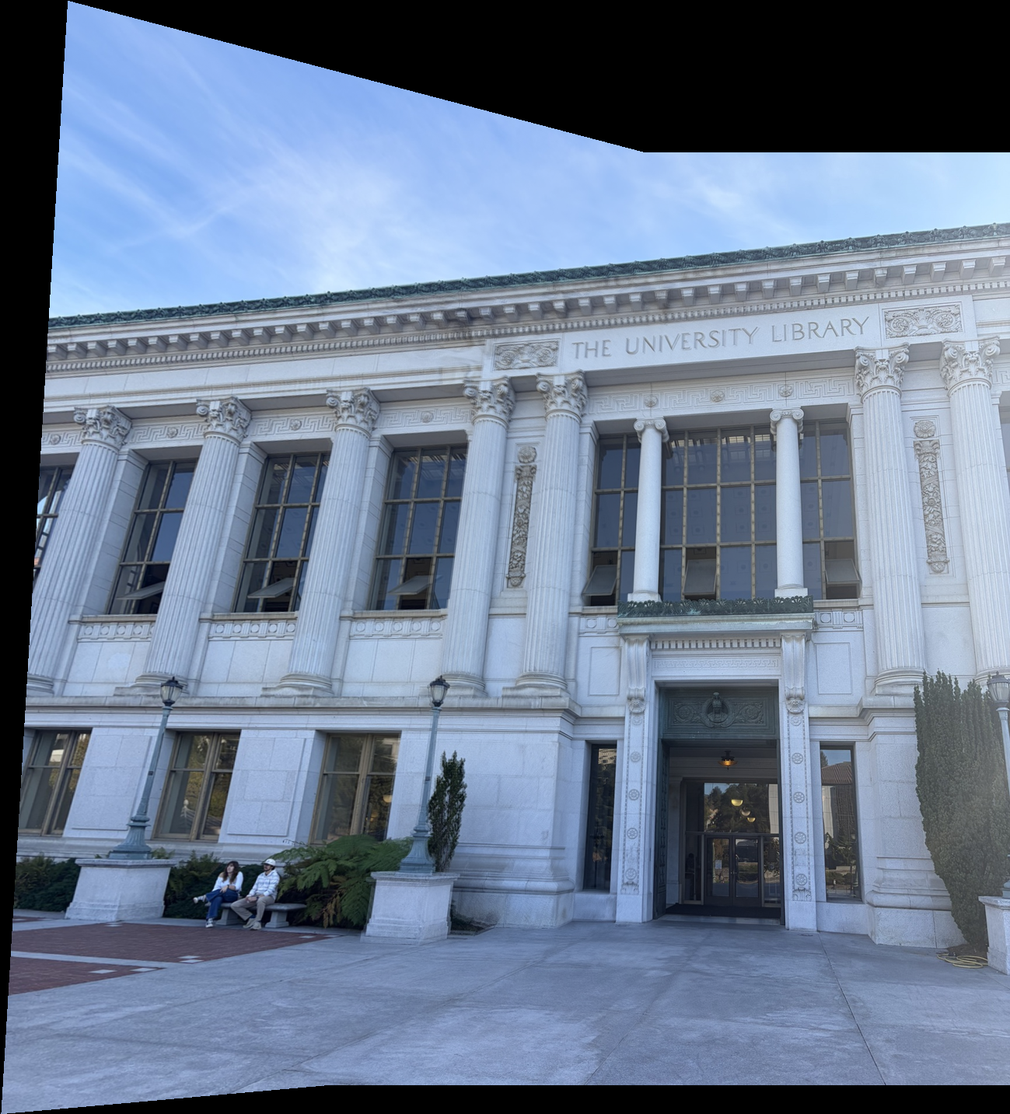
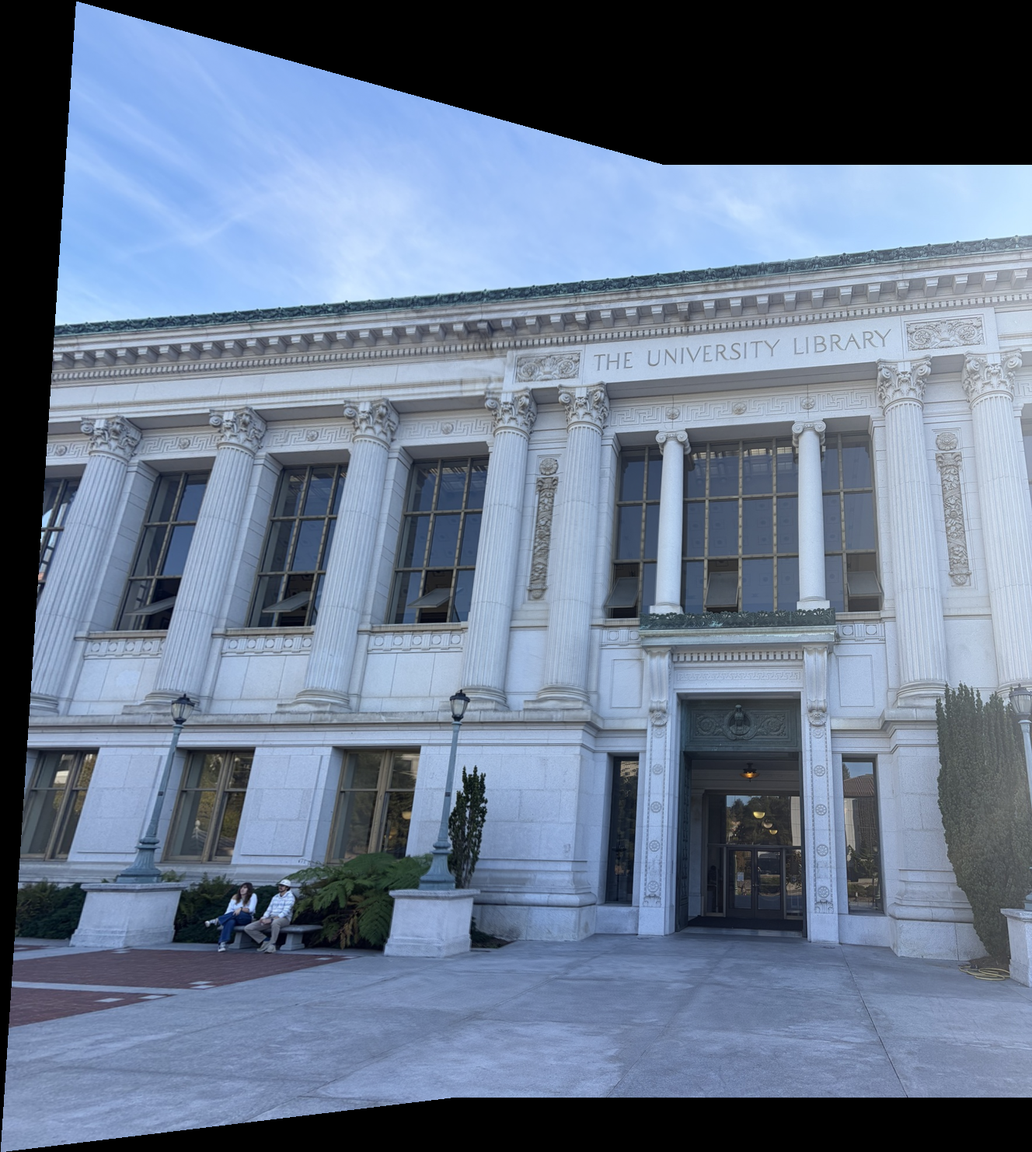
Use user-supplied manual correspondence points

diff --git a/project4/index.html b/project4/index.html
@@ -437,7 +437,7 @@
         </p>
         <figure class="hero">
           <a aria-label="Open full-size: Lower Sproul" href="assets/plaza_mosaic.png">
-            <img alt="Lower Sproul" decoding="async" height="1176" loading="lazy" src="assets/web/plaza_mosaic.webp" width="1800"/>
+            <img alt="Lower Sproul" decoding="async" height="1267" loading="lazy" src="assets/web/plaza_mosaic.webp" width="1800"/>
           </a>
           <figcaption>Lower Sproul</figcaption>
         </figure>
@@ -570,26 +570,26 @@
 
         <article>
           <h3>The Gateway</h3>
-          <figure class="correspondences"><svg viewBox="0 0 1000 400.00" role="img" aria-label="Corresponding landmarks between the left and right images" xmlns="http://www.w3.org/2000/svg"><title>The Gateway: corresponding landmarks</title><rect width="1000" height="100%" fill="#202124"/><image href="assets/web/IMG_4888.webp" x="0" y="28" width="480" height="360.00"/><text x="12" y="19" fill="white" font-family="Arial" font-size="14">Left</text><image href="assets/web/IMG_4890.webp" x="520" y="28" width="480" height="360.00"/><text x="532" y="19" fill="white" font-family="Arial" font-size="14">Right</text><line x1="253.20" y1="165.60" x2="679.60" y2="154.00" stroke="#ffe000" stroke-width="1" opacity=".35"/><circle cx="253.20" cy="165.60" r="4" fill="#ffe000" stroke="#111" stroke-width="1.5"/><text x="260.20" y="158.60" fill="#ffe000" stroke="#111" stroke-width="3" paint-order="stroke" font-family="Arial" font-weight="bold" font-size="16">1</text><circle cx="679.60" cy="154.00" r="4" fill="#ffe000" stroke="#111" stroke-width="1.5"/><text x="686.60" y="147.00" fill="#ffe000" stroke="#111" stroke-width="3" paint-order="stroke" font-family="Arial" font-weight="bold" font-size="16">1</text><line x1="445.20" y1="148.80" x2="860.00" y2="151.60" stroke="#00e5ff" stroke-width="1" opacity=".35"/><circle cx="445.20" cy="148.80" r="4" fill="#00e5ff" stroke="#111" stroke-width="1.5"/><text x="452.20" y="141.80" fill="#00e5ff" stroke="#111" stroke-width="3" paint-order="stroke" font-family="Arial" font-weight="bold" font-size="16">2</text><circle cx="860.00" cy="151.60" r="4" fill="#00e5ff" stroke="#111" stroke-width="1.5"/><text x="867.00" y="144.60" fill="#00e5ff" stroke="#111" stroke-width="3" paint-order="stroke" font-family="Arial" font-weight="bold" font-size="16">2</text><line x1="336.80" y1="260.00" x2="762.00" y2="254.00" stroke="#ff628c" stroke-width="1" opacity=".35"/><circle cx="336.80" cy="260.00" r="4" fill="#ff628c" stroke="#111" stroke-width="1.5"/><text x="343.80" y="253.00" fill="#ff628c" stroke="#111" stroke-width="3" paint-order="stroke" font-family="Arial" font-weight="bold" font-size="16">3</text><circle cx="762.00" cy="254.00" r="4" fill="#ff628c" stroke="#111" stroke-width="1.5"/><text x="769.00" y="247.00" fill="#ff628c" stroke="#111" stroke-width="3" paint-order="stroke" font-family="Arial" font-weight="bold" font-size="16">3</text><line x1="359.60" y1="260.00" x2="783.60" y2="254.00" stroke="#80ff6b" stroke-width="1" opacity=".35"/><circle cx="359.60" cy="260.00" r="4" fill="#80ff6b" stroke="#111" stroke-width="1.5"/><text x="366.60" y="253.00" fill="#80ff6b" stroke="#111" stroke-width="3" paint-order="stroke" font-family="Arial" font-weight="bold" font-size="16">4</text><circle cx="783.60" cy="254.00" r="4" fill="#80ff6b" stroke="#111" stroke-width="1.5"/><text x="790.60" y="247.00" fill="#80ff6b" stroke="#111" stroke-width="3" paint-order="stroke" font-family="Arial" font-weight="bold" font-size="16">4</text><line x1="302.40" y1="258.00" x2="732.40" y2="252.80" stroke="#ff9900" stroke-width="1" opacity=".35"/><circle cx="302.40" cy="258.00" r="4" fill="#ff9900" stroke="#111" stroke-width="1.5"/><text x="309.40" y="251.00" fill="#ff9900" stroke="#111" stroke-width="3" paint-order="stroke" font-family="Arial" font-weight="bold" font-size="16">5</text><circle cx="732.40" cy="252.80" r="4" fill="#ff9900" stroke="#111" stroke-width="1.5"/><text x="739.40" y="245.80" fill="#ff9900" stroke="#111" stroke-width="3" paint-order="stroke" font-family="Arial" font-weight="bold" font-size="16">5</text><line x1="385.20" y1="96.40" x2="810.80" y2="98.00" stroke="#c6a0ff" stroke-width="1" opacity=".35"/><circle cx="385.20" cy="96.40" r="4" fill="#c6a0ff" stroke="#111" stroke-width="1.5"/><text x="392.20" y="89.40" fill="#c6a0ff" stroke="#111" stroke-width="3" paint-order="stroke" font-family="Arial" font-weight="bold" font-size="16">6</text><circle cx="810.80" cy="98.00" r="4" fill="#c6a0ff" stroke="#111" stroke-width="1.5"/><text x="817.80" y="91.00" fill="#c6a0ff" stroke="#111" stroke-width="3" paint-order="stroke" font-family="Arial" font-weight="bold" font-size="16">6</text></svg></figure>
-          <pre class="matrix" aria-label="Recovered homography matrix">H = [  1.5661934   0.0004622  -475.3358361
-       0.2374199   1.3854138  -219.3001560
-       0.0004310   0.0000420   1.0000000 ]</pre>
+          <figure class="correspondences"><svg viewBox="0 0 1000 400.00" role="img" aria-label="Corresponding landmarks between the left and right images" xmlns="http://www.w3.org/2000/svg"><title>The Gateway: corresponding landmarks</title><rect width="1000" height="100%" fill="#202124"/><image href="assets/web/IMG_4888.webp" x="0" y="28" width="480" height="360.00"/><text x="12" y="19" fill="white" font-family="Arial" font-size="14">Left</text><image href="assets/web/IMG_4890.webp" x="520" y="28" width="480" height="360.00"/><text x="532" y="19" fill="white" font-family="Arial" font-size="14">Right</text><line x1="253.80" y1="166.00" x2="681.10" y2="154.60" stroke="#ffe000" stroke-width="1" opacity=".35"/><circle cx="253.80" cy="166.00" r="4" fill="#ffe000" stroke="#111" stroke-width="1.5"/><text x="260.80" y="159.00" fill="#ffe000" stroke="#111" stroke-width="3" paint-order="stroke" font-family="Arial" font-weight="bold" font-size="16">1</text><circle cx="681.10" cy="154.60" r="4" fill="#ffe000" stroke="#111" stroke-width="1.5"/><text x="688.10" y="147.60" fill="#ffe000" stroke="#111" stroke-width="3" paint-order="stroke" font-family="Arial" font-weight="bold" font-size="16">1</text><line x1="446.10" y1="146.20" x2="860.20" y2="150.10" stroke="#00e5ff" stroke-width="1" opacity=".35"/><circle cx="446.10" cy="146.20" r="4" fill="#00e5ff" stroke="#111" stroke-width="1.5"/><text x="453.10" y="139.20" fill="#00e5ff" stroke="#111" stroke-width="3" paint-order="stroke" font-family="Arial" font-weight="bold" font-size="16">2</text><circle cx="860.20" cy="150.10" r="4" fill="#00e5ff" stroke="#111" stroke-width="1.5"/><text x="867.20" y="143.10" fill="#00e5ff" stroke="#111" stroke-width="3" paint-order="stroke" font-family="Arial" font-weight="bold" font-size="16">2</text><line x1="336.30" y1="262.00" x2="759.70" y2="254.20" stroke="#ff628c" stroke-width="1" opacity=".35"/><circle cx="336.30" cy="262.00" r="4" fill="#ff628c" stroke="#111" stroke-width="1.5"/><text x="343.30" y="255.00" fill="#ff628c" stroke="#111" stroke-width="3" paint-order="stroke" font-family="Arial" font-weight="bold" font-size="16">3</text><circle cx="759.70" cy="254.20" r="4" fill="#ff628c" stroke="#111" stroke-width="1.5"/><text x="766.70" y="247.20" fill="#ff628c" stroke="#111" stroke-width="3" paint-order="stroke" font-family="Arial" font-weight="bold" font-size="16">3</text><line x1="359.40" y1="261.70" x2="780.70" y2="254.50" stroke="#80ff6b" stroke-width="1" opacity=".35"/><circle cx="359.40" cy="261.70" r="4" fill="#80ff6b" stroke="#111" stroke-width="1.5"/><text x="366.40" y="254.70" fill="#80ff6b" stroke="#111" stroke-width="3" paint-order="stroke" font-family="Arial" font-weight="bold" font-size="16">4</text><circle cx="780.70" cy="254.50" r="4" fill="#80ff6b" stroke="#111" stroke-width="1.5"/><text x="787.70" y="247.50" fill="#80ff6b" stroke="#111" stroke-width="3" paint-order="stroke" font-family="Arial" font-weight="bold" font-size="16">4</text><line x1="301.20" y1="260.20" x2="726.40" y2="252.40" stroke="#ff9900" stroke-width="1" opacity=".35"/><circle cx="301.20" cy="260.20" r="4" fill="#ff9900" stroke="#111" stroke-width="1.5"/><text x="308.20" y="253.20" fill="#ff9900" stroke="#111" stroke-width="3" paint-order="stroke" font-family="Arial" font-weight="bold" font-size="16">5</text><circle cx="726.40" cy="252.40" r="4" fill="#ff9900" stroke="#111" stroke-width="1.5"/><text x="733.40" y="245.40" fill="#ff9900" stroke="#111" stroke-width="3" paint-order="stroke" font-family="Arial" font-weight="bold" font-size="16">5</text><line x1="383.10" y1="95.80" x2="808.90" y2="97.60" stroke="#c6a0ff" stroke-width="1" opacity=".35"/><circle cx="383.10" cy="95.80" r="4" fill="#c6a0ff" stroke="#111" stroke-width="1.5"/><text x="390.10" y="88.80" fill="#c6a0ff" stroke="#111" stroke-width="3" paint-order="stroke" font-family="Arial" font-weight="bold" font-size="16">6</text><circle cx="808.90" cy="97.60" r="4" fill="#c6a0ff" stroke="#111" stroke-width="1.5"/><text x="815.90" y="90.60" fill="#c6a0ff" stroke="#111" stroke-width="3" paint-order="stroke" font-family="Arial" font-weight="bold" font-size="16">6</text></svg></figure>
+          <pre class="matrix" aria-label="Recovered homography matrix">H = [  1.4555456  -0.0314321  -412.5857737
+       0.2145069   1.2980965  -190.9237801
+       0.0003614   0.0000328   1.0000000 ]</pre>
         </article>
 
         <article>
           <h3>Doe Library</h3>
-          <figure class="correspondences"><svg viewBox="0 0 1000 680.00" role="img" aria-label="Corresponding landmarks between the left and right images" xmlns="http://www.w3.org/2000/svg"><title>Doe Library: corresponding landmarks</title><rect width="1000" height="100%" fill="#202124"/><image href="assets/web/IMG_4896.webp" x="0" y="28" width="480" height="640.00"/><text x="12" y="19" fill="white" font-family="Arial" font-size="14">Left</text><image href="assets/web/IMG_4897.webp" x="520" y="28" width="480" height="640.00"/><text x="532" y="19" fill="white" font-family="Arial" font-size="14">Right</text><line x1="272.53" y1="241.87" x2="668.27" y2="229.07" stroke="#ffe000" stroke-width="1" opacity=".35"/><circle cx="272.53" cy="241.87" r="4" fill="#ffe000" stroke="#111" stroke-width="1.5"/><text x="279.53" y="234.87" fill="#ffe000" stroke="#111" stroke-width="3" paint-order="stroke" font-family="Arial" font-weight="bold" font-size="16">1</text><circle cx="668.27" cy="229.07" r="4" fill="#ffe000" stroke="#111" stroke-width="1.5"/><text x="675.27" y="222.07" fill="#ffe000" stroke="#111" stroke-width="3" paint-order="stroke" font-family="Arial" font-weight="bold" font-size="16">1</text><line x1="269.87" y1="321.87" x2="662.93" y2="310.13" stroke="#00e5ff" stroke-width="1" opacity=".35"/><circle cx="269.87" cy="321.87" r="4" fill="#00e5ff" stroke="#111" stroke-width="1.5"/><text x="276.87" y="314.87" fill="#00e5ff" stroke="#111" stroke-width="3" paint-order="stroke" font-family="Arial" font-weight="bold" font-size="16">2</text><circle cx="662.93" cy="310.13" r="4" fill="#00e5ff" stroke="#111" stroke-width="1.5"/><text x="669.93" y="303.13" fill="#00e5ff" stroke="#111" stroke-width="3" paint-order="stroke" font-family="Arial" font-weight="bold" font-size="16">2</text><line x1="365.87" y1="566.67" x2="736.53" y2="554.40" stroke="#ff628c" stroke-width="1" opacity=".35"/><circle cx="365.87" cy="566.67" r="4" fill="#ff628c" stroke="#111" stroke-width="1.5"/><text x="372.87" y="559.67" fill="#ff628c" stroke="#111" stroke-width="3" paint-order="stroke" font-family="Arial" font-weight="bold" font-size="16">3</text><circle cx="736.53" cy="554.40" r="4" fill="#ff628c" stroke="#111" stroke-width="1.5"/><text x="743.53" y="547.40" fill="#ff628c" stroke="#111" stroke-width="3" paint-order="stroke" font-family="Arial" font-weight="bold" font-size="16">3</text><line x1="299.73" y1="167.73" x2="700.27" y2="159.73" stroke="#80ff6b" stroke-width="1" opacity=".35"/><circle cx="299.73" cy="167.73" r="4" fill="#80ff6b" stroke="#111" stroke-width="1.5"/><text x="306.73" y="160.73" fill="#80ff6b" stroke="#111" stroke-width="3" paint-order="stroke" font-family="Arial" font-weight="bold" font-size="16">4</text><circle cx="700.27" cy="159.73" r="4" fill="#80ff6b" stroke="#111" stroke-width="1.5"/><text x="707.27" y="152.73" fill="#80ff6b" stroke="#111" stroke-width="3" paint-order="stroke" font-family="Arial" font-weight="bold" font-size="16">4</text><line x1="409.60" y1="247.73" x2="800.00" y2="254.67" stroke="#ff9900" stroke-width="1" opacity=".35"/><circle cx="409.60" cy="247.73" r="4" fill="#ff9900" stroke="#111" stroke-width="1.5"/><text x="416.60" y="240.73" fill="#ff9900" stroke="#111" stroke-width="3" paint-order="stroke" font-family="Arial" font-weight="bold" font-size="16">5</text><circle cx="800.00" cy="254.67" r="4" fill="#ff9900" stroke="#111" stroke-width="1.5"/><text x="807.00" y="247.67" fill="#ff9900" stroke="#111" stroke-width="3" paint-order="stroke" font-family="Arial" font-weight="bold" font-size="16">5</text><line x1="186.67" y1="288.80" x2="572.27" y2="267.47" stroke="#c6a0ff" stroke-width="1" opacity=".35"/><circle cx="186.67" cy="288.80" r="4" fill="#c6a0ff" stroke="#111" stroke-width="1.5"/><text x="193.67" y="281.80" fill="#c6a0ff" stroke="#111" stroke-width="3" paint-order="stroke" font-family="Arial" font-weight="bold" font-size="16">6</text><circle cx="572.27" cy="267.47" r="4" fill="#c6a0ff" stroke="#111" stroke-width="1.5"/><text x="579.27" y="260.47" fill="#c6a0ff" stroke="#111" stroke-width="3" paint-order="stroke" font-family="Arial" font-weight="bold" font-size="16">6</text><line x1="181.87" y1="361.33" x2="561.60" y2="344.27" stroke="#ffffff" stroke-width="1" opacity=".35"/><circle cx="181.87" cy="361.33" r="4" fill="#ffffff" stroke="#111" stroke-width="1.5"/><text x="188.87" y="354.33" fill="#ffffff" stroke="#111" stroke-width="3" paint-order="stroke" font-family="Arial" font-weight="bold" font-size="16">7</text><circle cx="561.60" cy="344.27" r="4" fill="#ffffff" stroke="#111" stroke-width="1.5"/><text x="568.60" y="337.27" fill="#ffffff" stroke="#111" stroke-width="3" paint-order="stroke" font-family="Arial" font-weight="bold" font-size="16">7</text></svg></figure>
-          <pre class="matrix" aria-label="Recovered homography matrix">H = [  1.3223525  -0.0794634  -312.3323450
-       0.3078785   1.2184534  -195.7045869
-       0.0003534   0.0000201   1.0000000 ]</pre>
+          <figure class="correspondences"><svg viewBox="0 0 1000 680.00" role="img" aria-label="Corresponding landmarks between the left and right images" xmlns="http://www.w3.org/2000/svg"><title>Doe Library: corresponding landmarks</title><rect width="1000" height="100%" fill="#202124"/><image href="assets/web/IMG_4896.webp" x="0" y="28" width="480" height="640.00"/><text x="12" y="19" fill="white" font-family="Arial" font-size="14">Left</text><image href="assets/web/IMG_4897.webp" x="520" y="28" width="480" height="640.00"/><text x="532" y="19" fill="white" font-family="Arial" font-size="14">Right</text><line x1="273.20" y1="242.00" x2="668.40" y2="229.20" stroke="#ffe000" stroke-width="1" opacity=".35"/><circle cx="273.20" cy="242.00" r="4" fill="#ffe000" stroke="#111" stroke-width="1.5"/><text x="280.20" y="235.00" fill="#ffe000" stroke="#111" stroke-width="3" paint-order="stroke" font-family="Arial" font-weight="bold" font-size="16">1</text><circle cx="668.40" cy="229.20" r="4" fill="#ffe000" stroke="#111" stroke-width="1.5"/><text x="675.40" y="222.20" fill="#ffe000" stroke="#111" stroke-width="3" paint-order="stroke" font-family="Arial" font-weight="bold" font-size="16">1</text><line x1="270.80" y1="321.60" x2="661.20" y2="311.20" stroke="#00e5ff" stroke-width="1" opacity=".35"/><circle cx="270.80" cy="321.60" r="4" fill="#00e5ff" stroke="#111" stroke-width="1.5"/><text x="277.80" y="314.60" fill="#00e5ff" stroke="#111" stroke-width="3" paint-order="stroke" font-family="Arial" font-weight="bold" font-size="16">2</text><circle cx="661.20" cy="311.20" r="4" fill="#00e5ff" stroke="#111" stroke-width="1.5"/><text x="668.20" y="304.20" fill="#00e5ff" stroke="#111" stroke-width="3" paint-order="stroke" font-family="Arial" font-weight="bold" font-size="16">2</text><line x1="366.80" y1="568.00" x2="738.00" y2="556.40" stroke="#ff628c" stroke-width="1" opacity=".35"/><circle cx="366.80" cy="568.00" r="4" fill="#ff628c" stroke="#111" stroke-width="1.5"/><text x="373.80" y="561.00" fill="#ff628c" stroke="#111" stroke-width="3" paint-order="stroke" font-family="Arial" font-weight="bold" font-size="16">3</text><circle cx="738.00" cy="556.40" r="4" fill="#ff628c" stroke="#111" stroke-width="1.5"/><text x="745.00" y="549.40" fill="#ff628c" stroke="#111" stroke-width="3" paint-order="stroke" font-family="Arial" font-weight="bold" font-size="16">3</text><line x1="298.40" y1="168.40" x2="699.20" y2="159.20" stroke="#80ff6b" stroke-width="1" opacity=".35"/><circle cx="298.40" cy="168.40" r="4" fill="#80ff6b" stroke="#111" stroke-width="1.5"/><text x="305.40" y="161.40" fill="#80ff6b" stroke="#111" stroke-width="3" paint-order="stroke" font-family="Arial" font-weight="bold" font-size="16">4</text><circle cx="699.20" cy="159.20" r="4" fill="#80ff6b" stroke="#111" stroke-width="1.5"/><text x="706.20" y="152.20" fill="#80ff6b" stroke="#111" stroke-width="3" paint-order="stroke" font-family="Arial" font-weight="bold" font-size="16">4</text><line x1="411.20" y1="250.40" x2="799.60" y2="256.00" stroke="#ff9900" stroke-width="1" opacity=".35"/><circle cx="411.20" cy="250.40" r="4" fill="#ff9900" stroke="#111" stroke-width="1.5"/><text x="418.20" y="243.40" fill="#ff9900" stroke="#111" stroke-width="3" paint-order="stroke" font-family="Arial" font-weight="bold" font-size="16">5</text><circle cx="799.60" cy="256.00" r="4" fill="#ff9900" stroke="#111" stroke-width="1.5"/><text x="806.60" y="249.00" fill="#ff9900" stroke="#111" stroke-width="3" paint-order="stroke" font-family="Arial" font-weight="bold" font-size="16">5</text><line x1="186.80" y1="288.00" x2="570.40" y2="266.00" stroke="#c6a0ff" stroke-width="1" opacity=".35"/><circle cx="186.80" cy="288.00" r="4" fill="#c6a0ff" stroke="#111" stroke-width="1.5"/><text x="193.80" y="281.00" fill="#c6a0ff" stroke="#111" stroke-width="3" paint-order="stroke" font-family="Arial" font-weight="bold" font-size="16">6</text><circle cx="570.40" cy="266.00" r="4" fill="#c6a0ff" stroke="#111" stroke-width="1.5"/><text x="577.40" y="259.00" fill="#c6a0ff" stroke="#111" stroke-width="3" paint-order="stroke" font-family="Arial" font-weight="bold" font-size="16">6</text><line x1="180.80" y1="359.60" x2="558.00" y2="342.40" stroke="#ffffff" stroke-width="1" opacity=".35"/><circle cx="180.80" cy="359.60" r="4" fill="#ffffff" stroke="#111" stroke-width="1.5"/><text x="187.80" y="352.60" fill="#ffffff" stroke="#111" stroke-width="3" paint-order="stroke" font-family="Arial" font-weight="bold" font-size="16">7</text><circle cx="558.00" cy="342.40" r="4" fill="#ffffff" stroke="#111" stroke-width="1.5"/><text x="565.00" y="335.40" fill="#ffffff" stroke="#111" stroke-width="3" paint-order="stroke" font-family="Arial" font-weight="bold" font-size="16">7</text></svg></figure>
+          <pre class="matrix" aria-label="Recovered homography matrix">H = [  1.3702261  -0.0839241  -330.5531694
+       0.3329974   1.2425311  -211.0662873
+       0.0004089   0.0000066   1.0000000 ]</pre>
         </article>
 
         <article>
           <h3>Lower Sproul</h3>
-          <figure class="correspondences"><svg viewBox="0 0 1000 400.00" role="img" aria-label="Corresponding landmarks between the left and right images" xmlns="http://www.w3.org/2000/svg"><title>Lower Sproul: corresponding landmarks</title><rect width="1000" height="100%" fill="#202124"/><image href="assets/web/IMG_4927.webp" x="0" y="28" width="480" height="360.00"/><text x="12" y="19" fill="white" font-family="Arial" font-size="14">Left</text><image href="assets/web/IMG_4929.webp" x="520" y="28" width="480" height="360.00"/><text x="532" y="19" fill="white" font-family="Arial" font-size="14">Right</text><line x1="188.00" y1="90.00" x2="554.40" y2="57.60" stroke="#ffe000" stroke-width="1" opacity=".35"/><circle cx="188.00" cy="90.00" r="4" fill="#ffe000" stroke="#111" stroke-width="1.5"/><text x="195.00" y="83.00" fill="#ffe000" stroke="#111" stroke-width="3" paint-order="stroke" font-family="Arial" font-weight="bold" font-size="16">1</text><circle cx="554.40" cy="57.60" r="4" fill="#ffe000" stroke="#111" stroke-width="1.5"/><text x="561.40" y="50.60" fill="#ffe000" stroke="#111" stroke-width="3" paint-order="stroke" font-family="Arial" font-weight="bold" font-size="16">1</text><line x1="207.60" y1="124.40" x2="579.20" y2="99.20" stroke="#00e5ff" stroke-width="1" opacity=".35"/><circle cx="207.60" cy="124.40" r="4" fill="#00e5ff" stroke="#111" stroke-width="1.5"/><text x="214.60" y="117.40" fill="#00e5ff" stroke="#111" stroke-width="3" paint-order="stroke" font-family="Arial" font-weight="bold" font-size="16">2</text><circle cx="579.20" cy="99.20" r="4" fill="#00e5ff" stroke="#111" stroke-width="1.5"/><text x="586.20" y="92.20" fill="#00e5ff" stroke="#111" stroke-width="3" paint-order="stroke" font-family="Arial" font-weight="bold" font-size="16">2</text><line x1="224.00" y1="187.20" x2="600.40" y2="174.40" stroke="#ff628c" stroke-width="1" opacity=".35"/><circle cx="224.00" cy="187.20" r="4" fill="#ff628c" stroke="#111" stroke-width="1.5"/><text x="231.00" y="180.20" fill="#ff628c" stroke="#111" stroke-width="3" paint-order="stroke" font-family="Arial" font-weight="bold" font-size="16">3</text><circle cx="600.40" cy="174.40" r="4" fill="#ff628c" stroke="#111" stroke-width="1.5"/><text x="607.40" y="167.40" fill="#ff628c" stroke="#111" stroke-width="3" paint-order="stroke" font-family="Arial" font-weight="bold" font-size="16">3</text><line x1="345.60" y1="191.20" x2="730.00" y2="181.60" stroke="#80ff6b" stroke-width="1" opacity=".35"/><circle cx="345.60" cy="191.20" r="4" fill="#80ff6b" stroke="#111" stroke-width="1.5"/><text x="352.60" y="184.20" fill="#80ff6b" stroke="#111" stroke-width="3" paint-order="stroke" font-family="Arial" font-weight="bold" font-size="16">4</text><circle cx="730.00" cy="181.60" r="4" fill="#80ff6b" stroke="#111" stroke-width="1.5"/><text x="737.00" y="174.60" fill="#80ff6b" stroke="#111" stroke-width="3" paint-order="stroke" font-family="Arial" font-weight="bold" font-size="16">4</text><line x1="294.00" y1="252.00" x2="677.20" y2="242.40" stroke="#ff9900" stroke-width="1" opacity=".35"/><circle cx="294.00" cy="252.00" r="4" fill="#ff9900" stroke="#111" stroke-width="1.5"/><text x="301.00" y="245.00" fill="#ff9900" stroke="#111" stroke-width="3" paint-order="stroke" font-family="Arial" font-weight="bold" font-size="16">5</text><circle cx="677.20" cy="242.40" r="4" fill="#ff9900" stroke="#111" stroke-width="1.5"/><text x="684.20" y="235.40" fill="#ff9900" stroke="#111" stroke-width="3" paint-order="stroke" font-family="Arial" font-weight="bold" font-size="16">5</text><line x1="237.60" y1="226.40" x2="616.40" y2="216.80" stroke="#c6a0ff" stroke-width="1" opacity=".35"/><circle cx="237.60" cy="226.40" r="4" fill="#c6a0ff" stroke="#111" stroke-width="1.5"/><text x="244.60" y="219.40" fill="#c6a0ff" stroke="#111" stroke-width="3" paint-order="stroke" font-family="Arial" font-weight="bold" font-size="16">6</text><circle cx="616.40" cy="216.80" r="4" fill="#c6a0ff" stroke="#111" stroke-width="1.5"/><text x="623.40" y="209.80" fill="#c6a0ff" stroke="#111" stroke-width="3" paint-order="stroke" font-family="Arial" font-weight="bold" font-size="16">6</text><line x1="253.60" y1="248.40" x2="635.20" y2="238.40" stroke="#ffffff" stroke-width="1" opacity=".35"/><circle cx="253.60" cy="248.40" r="4" fill="#ffffff" stroke="#111" stroke-width="1.5"/><text x="260.60" y="241.40" fill="#ffffff" stroke="#111" stroke-width="3" paint-order="stroke" font-family="Arial" font-weight="bold" font-size="16">7</text><circle cx="635.20" cy="238.40" r="4" fill="#ffffff" stroke="#111" stroke-width="1.5"/><text x="642.20" y="231.40" fill="#ffffff" stroke="#111" stroke-width="3" paint-order="stroke" font-family="Arial" font-weight="bold" font-size="16">7</text><line x1="230.00" y1="125.60" x2="608.40" y2="104.40" stroke="#50ffd0" stroke-width="1" opacity=".35"/><circle cx="230.00" cy="125.60" r="4" fill="#50ffd0" stroke="#111" stroke-width="1.5"/><text x="237.00" y="118.60" fill="#50ffd0" stroke="#111" stroke-width="3" paint-order="stroke" font-family="Arial" font-weight="bold" font-size="16">8</text><circle cx="608.40" cy="104.40" r="4" fill="#50ffd0" stroke="#111" stroke-width="1.5"/><text x="615.40" y="97.40" fill="#50ffd0" stroke="#111" stroke-width="3" paint-order="stroke" font-family="Arial" font-weight="bold" font-size="16">8</text></svg></figure>
-          <pre class="matrix" aria-label="Recovered homography matrix">H = [  1.6742547   0.0492556  -687.1631459
-       0.2211838   1.5507215  -254.1283410
-       0.0004717   0.0001866   1.0000000 ]</pre>
+          <figure class="correspondences"><svg viewBox="0 0 1000 400.00" role="img" aria-label="Corresponding landmarks between the left and right images" xmlns="http://www.w3.org/2000/svg"><title>Lower Sproul: corresponding landmarks</title><rect width="1000" height="100%" fill="#202124"/><image href="assets/web/IMG_4927.webp" x="0" y="28" width="480" height="360.00"/><text x="12" y="19" fill="white" font-family="Arial" font-size="14">Left</text><image href="assets/web/IMG_4929.webp" x="520" y="28" width="480" height="360.00"/><text x="532" y="19" fill="white" font-family="Arial" font-size="14">Right</text><line x1="187.80" y1="89.80" x2="554.20" y2="57.40" stroke="#ffe000" stroke-width="1" opacity=".35"/><circle cx="187.80" cy="89.80" r="4" fill="#ffe000" stroke="#111" stroke-width="1.5"/><text x="194.80" y="82.80" fill="#ffe000" stroke="#111" stroke-width="3" paint-order="stroke" font-family="Arial" font-weight="bold" font-size="16">1</text><circle cx="554.20" cy="57.40" r="4" fill="#ffe000" stroke="#111" stroke-width="1.5"/><text x="561.20" y="50.40" fill="#ffe000" stroke="#111" stroke-width="3" paint-order="stroke" font-family="Arial" font-weight="bold" font-size="16">1</text><line x1="207.60" y1="123.10" x2="579.40" y2="98.50" stroke="#00e5ff" stroke-width="1" opacity=".35"/><circle cx="207.60" cy="123.10" r="4" fill="#00e5ff" stroke="#111" stroke-width="1.5"/><text x="214.60" y="116.10" fill="#00e5ff" stroke="#111" stroke-width="3" paint-order="stroke" font-family="Arial" font-weight="bold" font-size="16">2</text><circle cx="579.40" cy="98.50" r="4" fill="#00e5ff" stroke="#111" stroke-width="1.5"/><text x="586.40" y="91.50" fill="#00e5ff" stroke="#111" stroke-width="3" paint-order="stroke" font-family="Arial" font-weight="bold" font-size="16">2</text><line x1="223.20" y1="186.40" x2="599.80" y2="171.10" stroke="#ff628c" stroke-width="1" opacity=".35"/><circle cx="223.20" cy="186.40" r="4" fill="#ff628c" stroke="#111" stroke-width="1.5"/><text x="230.20" y="179.40" fill="#ff628c" stroke="#111" stroke-width="3" paint-order="stroke" font-family="Arial" font-weight="bold" font-size="16">3</text><circle cx="599.80" cy="171.10" r="4" fill="#ff628c" stroke="#111" stroke-width="1.5"/><text x="606.80" y="164.10" fill="#ff628c" stroke="#111" stroke-width="3" paint-order="stroke" font-family="Arial" font-weight="bold" font-size="16">3</text><line x1="294.00" y1="251.50" x2="679.60" y2="241.00" stroke="#80ff6b" stroke-width="1" opacity=".35"/><circle cx="294.00" cy="251.50" r="4" fill="#80ff6b" stroke="#111" stroke-width="1.5"/><text x="301.00" y="244.50" fill="#80ff6b" stroke="#111" stroke-width="3" paint-order="stroke" font-family="Arial" font-weight="bold" font-size="16">4</text><circle cx="679.60" cy="241.00" r="4" fill="#80ff6b" stroke="#111" stroke-width="1.5"/><text x="686.60" y="234.00" fill="#80ff6b" stroke="#111" stroke-width="3" paint-order="stroke" font-family="Arial" font-weight="bold" font-size="16">4</text><line x1="237.90" y1="227.80" x2="617.20" y2="217.30" stroke="#ff9900" stroke-width="1" opacity=".35"/><circle cx="237.90" cy="227.80" r="4" fill="#ff9900" stroke="#111" stroke-width="1.5"/><text x="244.90" y="220.80" fill="#ff9900" stroke="#111" stroke-width="3" paint-order="stroke" font-family="Arial" font-weight="bold" font-size="16">5</text><circle cx="617.20" cy="217.30" r="4" fill="#ff9900" stroke="#111" stroke-width="1.5"/><text x="624.20" y="210.30" fill="#ff9900" stroke="#111" stroke-width="3" paint-order="stroke" font-family="Arial" font-weight="bold" font-size="16">5</text><line x1="253.20" y1="248.20" x2="635.20" y2="238.90" stroke="#c6a0ff" stroke-width="1" opacity=".35"/><circle cx="253.20" cy="248.20" r="4" fill="#c6a0ff" stroke="#111" stroke-width="1.5"/><text x="260.20" y="241.20" fill="#c6a0ff" stroke="#111" stroke-width="3" paint-order="stroke" font-family="Arial" font-weight="bold" font-size="16">6</text><circle cx="635.20" cy="238.90" r="4" fill="#c6a0ff" stroke="#111" stroke-width="1.5"/><text x="642.20" y="231.90" fill="#c6a0ff" stroke="#111" stroke-width="3" paint-order="stroke" font-family="Arial" font-weight="bold" font-size="16">6</text><line x1="229.50" y1="124.30" x2="607.00" y2="102.70" stroke="#ffffff" stroke-width="1" opacity=".35"/><circle cx="229.50" cy="124.30" r="4" fill="#ffffff" stroke="#111" stroke-width="1.5"/><text x="236.50" y="117.30" fill="#ffffff" stroke="#111" stroke-width="3" paint-order="stroke" font-family="Arial" font-weight="bold" font-size="16">7</text><circle cx="607.00" cy="102.70" r="4" fill="#ffffff" stroke="#111" stroke-width="1.5"/><text x="614.00" y="95.70" fill="#ffffff" stroke="#111" stroke-width="3" paint-order="stroke" font-family="Arial" font-weight="bold" font-size="16">7</text></svg></figure>
+          <pre class="matrix" aria-label="Recovered homography matrix">H = [  1.7619998   0.0060587  -718.3252412
+       0.2766965   1.4989521  -266.8376385
+       0.0006187  -0.0000019   1.0000000 ]</pre>
         </article>
       </section>
 
@@ -742,7 +742,7 @@
           </div>
           <figure class="result">
             <a aria-label="Open full-size: The Gateway" href="assets/modern_building_mosaic.png">
-              <img alt="The Gateway" decoding="async" height="1210" loading="lazy" src="assets/web/modern_building_mosaic.webp" width="1676"/>
+              <img alt="The Gateway" decoding="async" height="1141" loading="lazy" src="assets/web/modern_building_mosaic.webp" width="1629"/>
             </a>
             <figcaption>The Gateway</figcaption>
           </figure>
@@ -766,7 +766,7 @@
           </div>
           <figure class="result">
             <a aria-label="Open full-size: Doe Library" href="assets/library_mosaic.png">
-              <img alt="Doe Library" decoding="async" height="1400" loading="lazy" src="assets/web/library_mosaic.webp" width="1269"/>
+              <img alt="Doe Library" decoding="async" height="1400" loading="lazy" src="assets/web/library_mosaic.webp" width="1255"/>
             </a>
             <figcaption>Doe Library</figcaption>
           </figure>
@@ -790,7 +790,7 @@
           </div>
           <figure class="result">
             <a aria-label="Open full-size: Lower Sproul" href="assets/plaza_mosaic.png">
-              <img alt="Lower Sproul" decoding="async" height="1176" loading="lazy" src="assets/web/plaza_mosaic.webp" width="1800"/>
+              <img alt="Lower Sproul" decoding="async" height="1267" loading="lazy" src="assets/web/plaza_mosaic.webp" width="1800"/>
             </a>
             <figcaption>Lower Sproul</figcaption>
           </figure>
@@ -983,7 +983,7 @@
           <div class="grid comparisons">
           <figure class="">
             <a href="assets/modern_building_mosaic.png" aria-label="Open full-size: Part A">
-              <img src="assets/web/partb/assets_results_modern_building_mosaic.webp" width="1676" height="1210" loading="lazy" decoding="async" alt="Part A"/>
+              <img src="assets/web/partb/assets_results_modern_building_mosaic.webp" width="1629" height="1141" loading="lazy" decoding="async" alt="Part A"/>
             </a>
             <figcaption>Manual</figcaption>
           </figure>
@@ -1007,7 +1007,7 @@
           <div class="grid comparisons">
           <figure class="">
             <a href="assets/library_mosaic.png" aria-label="Open full-size: Part A">
-              <img src="assets/web/partb/assets_results_library_mosaic.webp" width="1269" height="1400" loading="lazy" decoding="async" alt="Part A"/>
+              <img src="assets/web/partb/assets_results_library_mosaic.webp" width="1255" height="1400" loading="lazy" decoding="async" alt="Part A"/>
             </a>
             <figcaption>Manual</figcaption>
           </figure>
@@ -1031,7 +1031,7 @@
           <div class="grid comparisons">
           <figure class="">
             <a href="assets/plaza_mosaic.png" aria-label="Open full-size: Part A">
-              <img src="assets/web/partb/assets_results_plaza_mosaic.webp" width="1800" height="1176" loading="lazy" decoding="async" alt="Part A"/>
+              <img src="assets/web/partb/assets_results_plaza_mosaic.webp" width="1800" height="1267" loading="lazy" decoding="async" alt="Part A"/>
             </a>
             <figcaption>Manual</figcaption>
           </figure>
